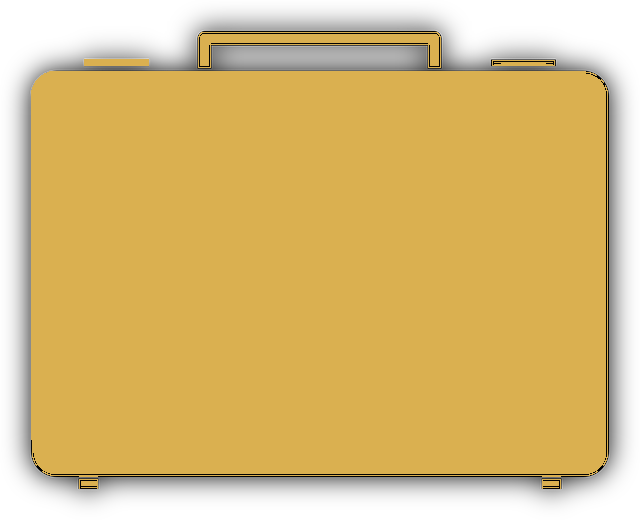
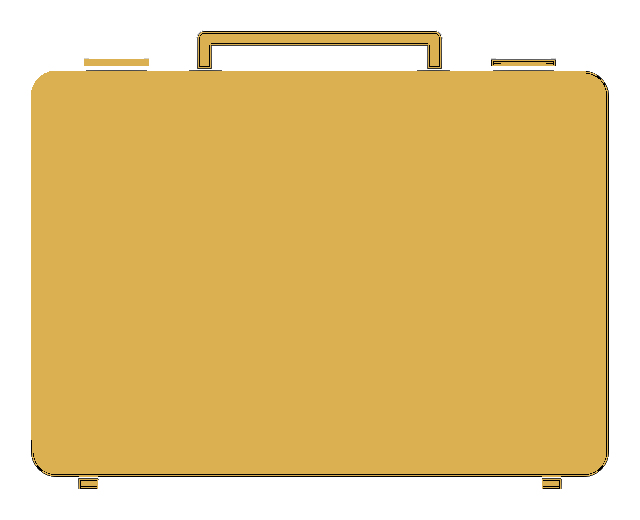
Design

Changed region(s): [[0.0, 0.0308, 1.0, 0.9846]]

diff --git a/DealOrNoDeal/DealOrNoDeal/MainWindow.xaml b/DealOrNoDeal/DealOrNoDeal/MainWindow.xaml
@@ -6,7 +6,10 @@
         xmlns:local="clr-namespace:DealOrNoDeal"
         mc:Ignorable="d"
         Title="MainWindow" WindowStartupLocation="CenterScreen" Height="800" Width="1100">
-    <Grid Name="gridMain" Background="White">
+    <Grid Name="gridMain">
+        <Grid.Background>
+            <ImageBrush ImageSource="background.jpg" Opacity="0.9"/>
+        </Grid.Background>
         <Grid.RowDefinitions>
             <RowDefinition Height="*"></RowDefinition>
             <RowDefinition Height="*"/>
@@ -46,36 +49,36 @@
         <Label Name="Label_1500000" Grid.Row="8" Grid.Column="3" Content="1500000$" FontSize="50" HorizontalAlignment="Center"></Label>
         <Label Name="Label_3000000" Grid.Row="9" Grid.Column="3" Content="3000000$" FontSize="50" HorizontalAlignment="Center"></Label>
 
-        <Image Name="Image1" MouseDown="Image_MouseDown" Grid.Column="1" Grid.Row="0" Source="koffer.jpg"></Image>
+        <Image Name="Image1" MouseDown="Image_MouseDown" Grid.Column="1" Grid.Row="0" Source="koffer.png"></Image>
         <Image Name="MeganImage" Grid.Column="1" Grid.Row="0" Grid.ColumnSpan="2" Grid.RowSpan="10" Source="megan.jpg"></Image>
         <Image Name="EndKImage" Grid.Column="1" Grid.Row="3" Grid.ColumnSpan="2" Width="250" Source="kofferEnd.png"></Image>
         <Label Name="LabelEnd" Grid.Column="1" Grid.Row="3" Grid.ColumnSpan="2" HorizontalAlignment="Center" VerticalAlignment="Center" Foreground="White" FontSize="15" ></Label>
-        <Image Name="Image2" MouseDown="Image_MouseDown" Grid.Column="1" Grid.Row="1" Source="koffer.jpg"></Image>
-        <Image Name="Image3" MouseDown="Image_MouseDown" Grid.Column="1" Grid.Row="2" Source="koffer.jpg"></Image>
-        <Image Name="Image4" MouseDown="Image_MouseDown" Grid.Column="1" Grid.Row="3" Source="koffer.jpg"></Image>
-        <Image Name="Image5" MouseDown="Image_MouseDown" Grid.Column="1" Grid.Row="4" Source="koffer.jpg"></Image>
-        <Image Name="Image6" MouseDown="Image_MouseDown" Grid.Column="1" Grid.Row="5" Source="koffer.jpg"></Image>
-        <Image Name="Image7" MouseDown="Image_MouseDown" Grid.Column="1" Grid.Row="6" Source="koffer.jpg"></Image>
-        <Image Name="Image8" MouseDown="Image_MouseDown" Grid.Column="1" Grid.Row="7" Source="koffer.jpg"></Image>
-        <Image Name="Image9" MouseDown="Image_MouseDown" Grid.Column="1" Grid.Row="8" Source="koffer.jpg"></Image>
-        <Image Name="Image10" MouseDown="Image_MouseDown" Grid.Column="1" Grid.Row="9" Source="koffer.jpg"></Image>
-        <Image Name="Image11" MouseDown="Image_MouseDown" Grid.Column="2" Grid.Row="0" Source="koffer.jpg"></Image>
-        <Image Name="Image12" MouseDown="Image_MouseDown" Grid.Column="2" Grid.Row="1" Source="koffer.jpg"></Image>
-        <Image Name="Image13" MouseDown="Image_MouseDown" Grid.Column="2" Grid.Row="2" Source="koffer.jpg"></Image>
-        <Image Name="Image14" MouseDown="Image_MouseDown" Grid.Column="2" Grid.Row="3" Source="koffer.jpg"></Image>
-        <Image Name="Image15" MouseDown="Image_MouseDown" Grid.Column="2" Grid.Row="4" Source="koffer.jpg"></Image>
-        <Image Name="Image16" MouseDown="Image_MouseDown" Grid.Column="2" Grid.Row="5" Source="koffer.jpg"></Image>
-        <Image Name="Image17" MouseDown="Image_MouseDown" Grid.Column="2" Grid.Row="6" Source="koffer.jpg"></Image>
-        <Image Name="Image18" MouseDown="Image_MouseDown" Grid.Column="2" Grid.Row="7" Source="koffer.jpg"></Image>
-        <Image Name="Image19" MouseDown="Image_MouseDown" Grid.Column="2" Grid.Row="8" Source="koffer.jpg" ></Image>
-        <Image Name="Image20" MouseDown="Image_MouseDown" Grid.Column="2" Grid.Row="9" Source="koffer.jpg"></Image>
+        <Image Name="Image2" MouseDown="Image_MouseDown" Grid.Column="1" Grid.Row="1" Source="koffer.png"></Image>
+        <Image Name="Image3" MouseDown="Image_MouseDown" Grid.Column="1" Grid.Row="2" Source="koffer.png"></Image>
+        <Image Name="Image4" MouseDown="Image_MouseDown" Grid.Column="1" Grid.Row="3" Source="koffer.png"></Image>
+        <Image Name="Image5" MouseDown="Image_MouseDown" Grid.Column="1" Grid.Row="4" Source="koffer.png"></Image>
+        <Image Name="Image6" MouseDown="Image_MouseDown" Grid.Column="1" Grid.Row="5" Source="koffer.png"></Image>
+        <Image Name="Image7" MouseDown="Image_MouseDown" Grid.Column="1" Grid.Row="6" Source="koffer.png"></Image>
+        <Image Name="Image8" MouseDown="Image_MouseDown" Grid.Column="1" Grid.Row="7" Source="koffer.png"></Image>
+        <Image Name="Image9" MouseDown="Image_MouseDown" Grid.Column="1" Grid.Row="8" Source="koffer.png"></Image>
+        <Image Name="Image10" MouseDown="Image_MouseDown" Grid.Column="1" Grid.Row="9" Source="koffer.png"></Image>
+        <Image Name="Image11" MouseDown="Image_MouseDown" Grid.Column="2" Grid.Row="0" Source="koffer.png"></Image>
+        <Image Name="Image12" MouseDown="Image_MouseDown" Grid.Column="2" Grid.Row="1" Source="koffer.png"></Image>
+        <Image Name="Image13" MouseDown="Image_MouseDown" Grid.Column="2" Grid.Row="2" Source="koffer.png"></Image>
+        <Image Name="Image14" MouseDown="Image_MouseDown" Grid.Column="2" Grid.Row="3" Source="koffer.png"></Image>
+        <Image Name="Image15" MouseDown="Image_MouseDown" Grid.Column="2" Grid.Row="4" Source="koffer.png"></Image>
+        <Image Name="Image16" MouseDown="Image_MouseDown" Grid.Column="2" Grid.Row="5" Source="koffer.png"></Image>
+        <Image Name="Image17" MouseDown="Image_MouseDown" Grid.Column="2" Grid.Row="6" Source="koffer.png"></Image>
+        <Image Name="Image18" MouseDown="Image_MouseDown" Grid.Column="2" Grid.Row="7" Source="koffer.png"></Image>
+        <Image Name="Image19" MouseDown="Image_MouseDown" Grid.Column="2" Grid.Row="8" Source="koffer.png" ></Image>
+        <Image Name="Image20" MouseDown="Image_MouseDown" Grid.Column="2" Grid.Row="9" Source="koffer.png"></Image>
         <Button Click="PlayAgBtn_Click" Name="PlayAgBtn" Grid.Column="1" Grid.ColumnSpan="2" Grid.Row="9" Width="200" Height="50" Content="Play Again" FontSize="25" ></Button>
         <Button Click="ShowScoreBtn_Click" Name="ShowScoreBtn" Grid.Column="1" Grid.ColumnSpan="2" Grid.Row="8" Width="200" Height="50" Content="Highscore" FontSize="25" ></Button>
 
 
         <!--Final Choose-->
         <Image Name="ImageLeftChoose" MouseDown="ChooseLastCase" Grid.Column="1" Grid.Row="5" Source="kofferChoosen.png" ></Image>
-        <Image Name="ImageRightChoose" MouseDown="ChooseLastList" Grid.Column="2" Grid.Row="5" Source="koffer.jpg"></Image>
+        <Image Name="ImageRightChoose" MouseDown="ChooseLastList" Grid.Column="2" Grid.Row="5" Source="koffer.png"></Image>
         <Label Name="LabelLeftChoose" Grid.Row="6" Grid.Column="1" Content="" FontSize="50" HorizontalAlignment="Center"></Label>
         <Label Name="LabelRightChoose" Grid.Row="6" Grid.Column="2" Content="" FontSize="50" HorizontalAlignment="Center"></Label>
 

diff --git a/DealOrNoDeal/DealOrNoDeal/Dialog.xaml b/DealOrNoDeal/DealOrNoDeal/Dialog.xaml
@@ -9,7 +9,9 @@
     <Grid>
         <Button x:Name="button" Content="Ja" HorizontalAlignment="Left" Margin="40,220,0,0" VerticalAlignment="Top" Width="75" RenderTransformOrigin="0.207,0.607" Click="button_Click"/>
         <Button x:Name="button1" Content="Nein" HorizontalAlignment="Left" Margin="179,220,0,0" VerticalAlignment="Top" Width="75" Click="button1_Click"/>
-        <TextBlock x:Name="textBlock" HorizontalAlignment="Left" Margin="33,53,0,0" TextWrapping="Wrap" VerticalAlignment="Top"><Run Text="Möchten Sie das Angebot von 0 annehmen"/><Run Text="?"/></TextBlock>
-
+        <TextBlock x:Name="textBlock" HorizontalAlignment="Left" Margin="33,53,0,0" TextWrapping="Wrap" VerticalAlignment="Top" FontSize="16" FontWeight="Bold" Background="#E5DEDEDE"><Run Text="Möchten Sie das Angebot von 0 annehmen"/><Run Text="?"/></TextBlock>
+        <Grid.Background>
+            <ImageBrush ImageSource="offer.png"/>
+        </Grid.Background>
     </Grid>
 </Window>

diff --git a/DealOrNoDeal/DealOrNoDeal/MainWindow.xaml.cs b/DealOrNoDeal/DealOrNoDeal/MainWindow.xaml.cs
@@ -30,6 +30,8 @@ namespace DealOrNoDeal
         public MainWindow()
         {
             InitializeComponent();
+            Properties.Settings.Default.AlreadySaved = false;
+            Properties.Settings.Default.Save();
             DataContext = this;
             round = 1;
             casevalue = 0;
@@ -219,7 +221,13 @@ namespace DealOrNoDeal
             LabelLeftChoose.Visibility = Visibility.Hidden;
             LabelRightChoose.Visibility = Visibility.Hidden;
 
-            MeganImage.Visibility = Visibility.Visible;
+            //MeganImage.Visibility = Visibility.Visible;
+            ImageBrush myBrush = new ImageBrush();
+            Image image = new Image();
+            image.Source = new BitmapImage(new Uri(@"megan.jpg", UriKind.RelativeOrAbsolute));
+            myBrush.ImageSource = image.Source;
+            Grid grid = (Grid)FindName("gridMain");
+            grid.Background = myBrush;
             EndKImage.Visibility = Visibility.Visible;
             LabelEnd.Content = casevalue + "$";
             PlayAgBtn.Visibility = Visibility.Visible;
@@ -235,7 +243,13 @@ namespace DealOrNoDeal
             LabelLeftChoose.Visibility = Visibility.Hidden;
             LabelRightChoose.Visibility = Visibility.Hidden;
 
-            MeganImage.Visibility = Visibility.Visible;
+            //MeganImage.Visibility = Visibility.Visible;
+            ImageBrush myBrush = new ImageBrush();
+            Image image = new Image();
+            image.Source = new BitmapImage(new Uri(@"megan.jpg", UriKind.RelativeOrAbsolute));
+            myBrush.ImageSource = image.Source;
+            Grid grid = (Grid)FindName("gridMain");
+            grid.Background = myBrush;
             EndKImage.Visibility = Visibility.Visible;
             LabelEnd.Content = list[0] + "$";
             PlayAgBtn.Visibility = Visibility.Visible;
@@ -247,7 +261,13 @@ namespace DealOrNoDeal
         {
             /* Show Win */
             hideAllLablesAndPictures();
-            MeganImage.Visibility = Visibility.Visible;
+            //MeganImage.Visibility = Visibility.Visible;
+            ImageBrush myBrush = new ImageBrush();
+            Image image = new Image();
+            image.Source = new BitmapImage(new Uri(@"megan.jpg", UriKind.RelativeOrAbsolute));
+            myBrush.ImageSource = image.Source;
+            Grid grid = (Grid)FindName("gridMain");
+            grid.Background = myBrush;
             EndKImage.Visibility = Visibility.Visible;
             LabelEnd.Content = casevalue + "$";
             PlayAgBtn.Visibility = Visibility.Visible;

diff --git a/DealOrNoDeal/DealOrNoDeal/Dialog.xaml.cs b/DealOrNoDeal/DealOrNoDeal/Dialog.xaml.cs
@@ -25,7 +25,7 @@ namespace DealOrNoDeal
             
             InitializeComponent();
 
-            textBlock.Text = "Möchten Sie das Angebot von " + value + " annehmen";
+            textBlock.Text = "Möchten Sie das Angebot von " + value + " annehmen?";
         }
 
         private void button1_Click(object sender, RoutedEventArgs e)
